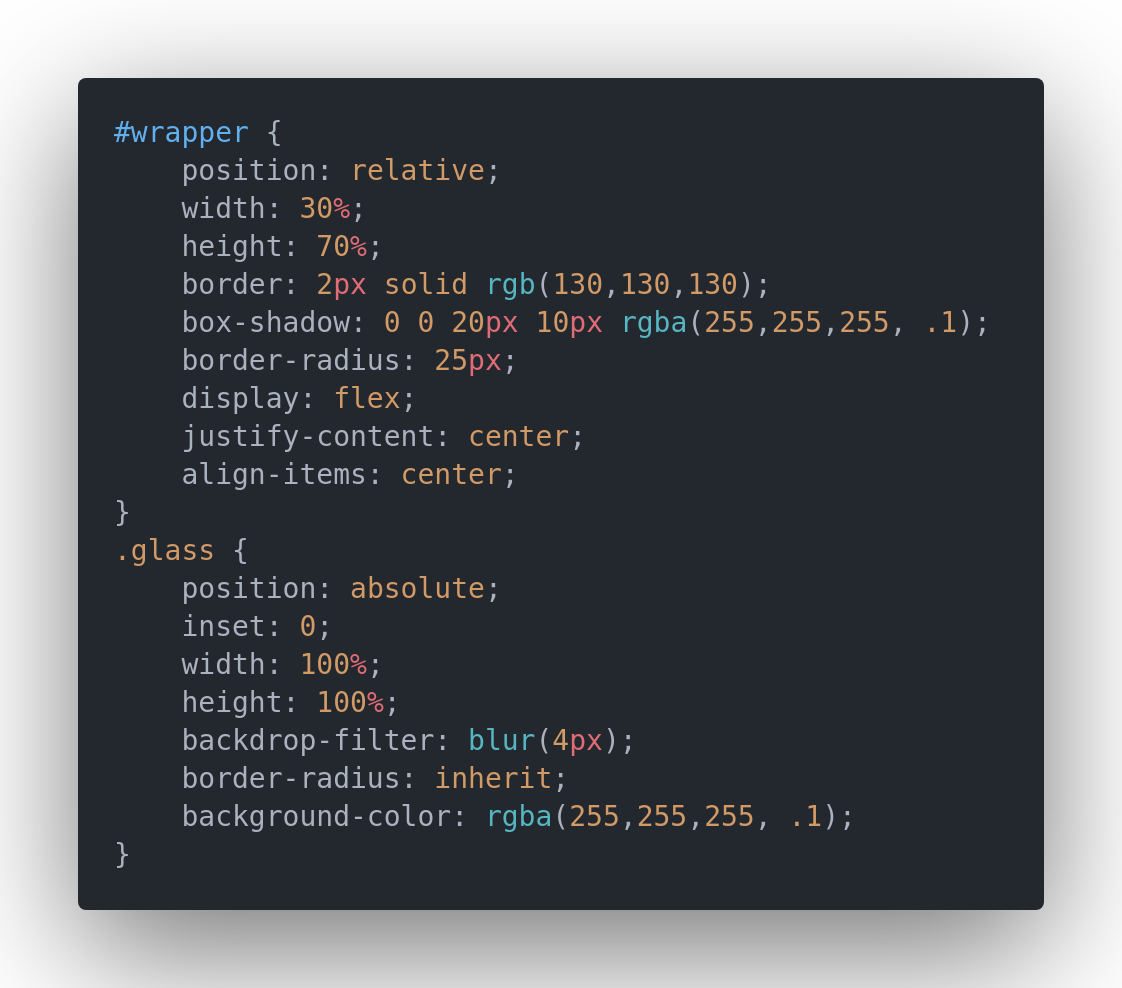
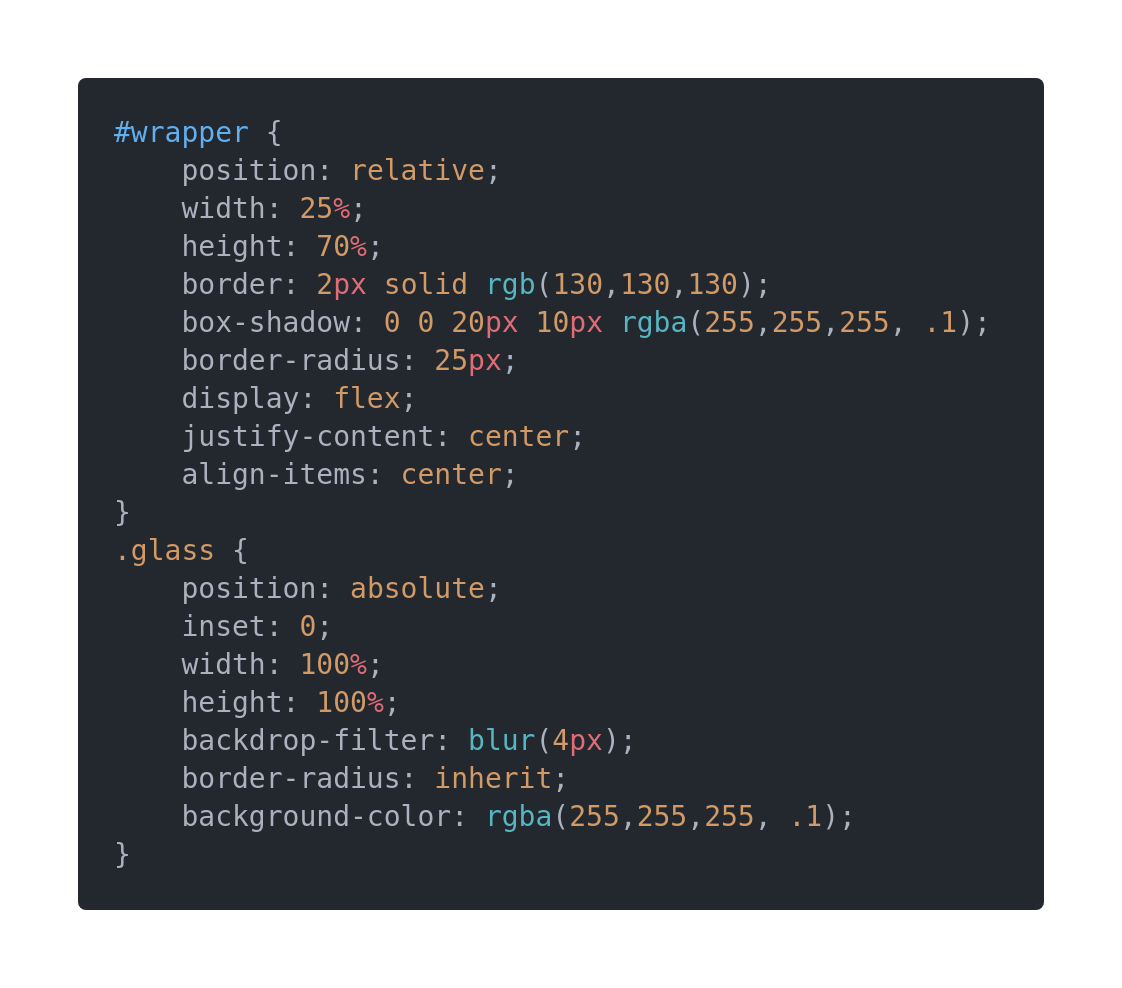
adjusted spacing

Changed region(s): [[0.0, 0.0911, 0.9982, 1.0], [0.0936, 0.0304, 0.9046, 0.0911]]

diff --git a/style.css b/style.css
@@ -1,7 +1,7 @@
 
 #wrapper {
     position: relative;
-    width: 30%;
+    width: 25%;
     height: 70%;
     border: 2px solid rgb(130,130,130);
     box-shadow: 0 0 20px 10px rgba(255,255,255, .1);
@@ -27,8 +27,9 @@ form {
     flex-direction: column;
     justify-content: start;
     align-items: center;
-    padding: 30px 20%;
+    padding: 100px 10%;
     color: #c7c7c7;
+    margin-top: auto;
 }
 h1 {
     margin-right: auto;
@@ -42,7 +43,7 @@ h1 {
     width: 100%;
 }
 .label-input:first-of-type {
-    margin-top: 50px;
+    margin-top: auto;
 }
 .label-input:nth-of-type(2) {
     margin-top: 50px;
@@ -62,20 +63,20 @@ h1 {
     font-size: 16px;
 }
 a {
-    margin-top: 20px;
-    margin-right: auto;
+    margin: 20px auto auto 0;
     color: #c7c7c7;
 }
 .btn-wrapper {
     display: flex;
     justify-content: space-between;
     align-items: center;
-    margin-top: 100px;
+    margin-top: auto;
     width: 100%;
 }
 button {
     padding: 10px 20px;
-    width: 100px;
+    width: 150px;
+    height: 50px;
     background:
     transparent
     linear-gradient(135deg, rgba(0,0,0,0), rgba(200,200,200,.4))
@@ -85,4 +86,6 @@ button {
     cursor: pointer;
     border: 1px solid #c7c7c7;
     border-radius: 10px;
+    font-size: 20px;
+    text-shadow: 0 0 2px black;
 }
